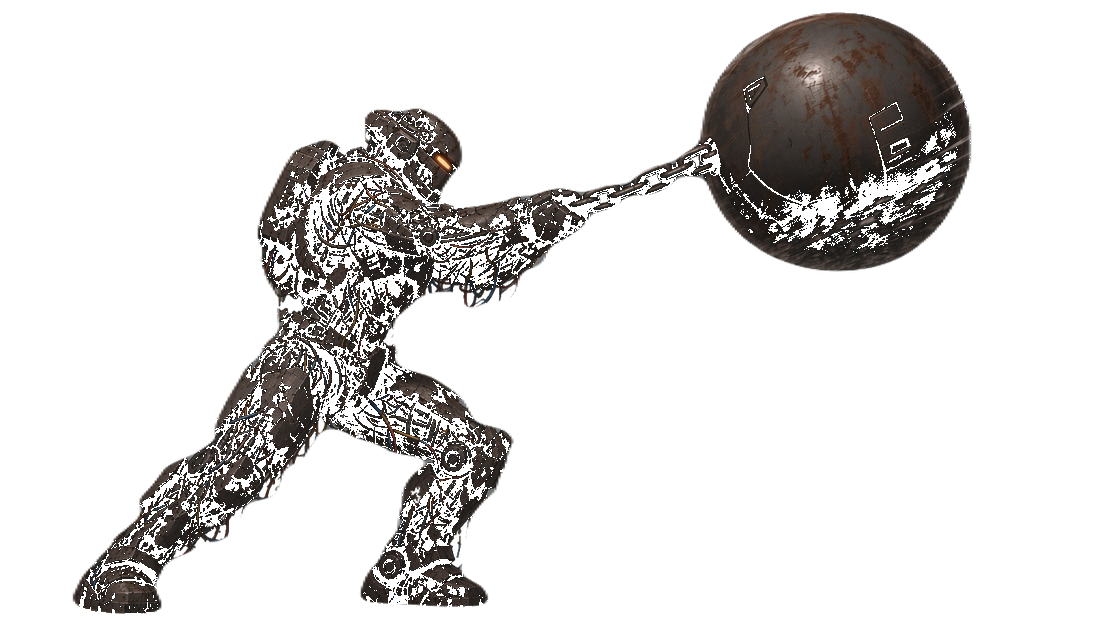
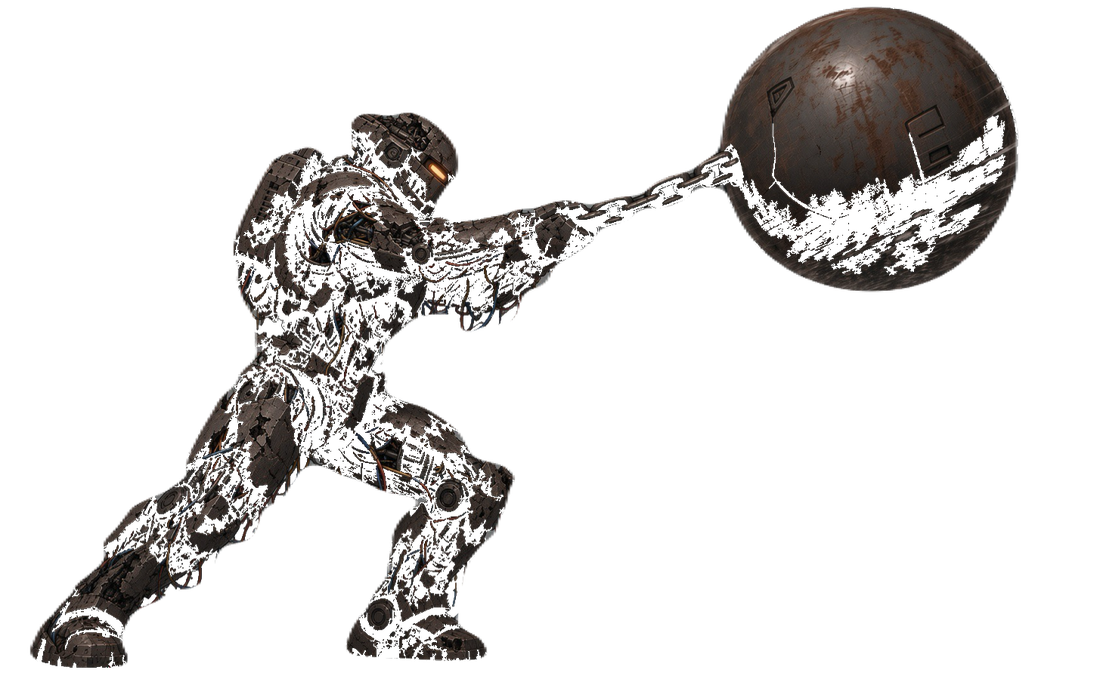
Golpe alto de Óxido: capas nuevas sin fondo gris.

Changed region(s): [[0.0309, 0.0, 0.9273, 1.0]]

diff --git a/index.html b/index.html
@@ -8,7 +8,7 @@
   <meta name="apple-mobile-web-app-status-bar-style" content="black-translucent" />
   <meta name="theme-color" content="#05070f" />
   <title>Peleas de Robots</title>
-  <link rel="stylesheet" href="style.css?v=28" />
+  <link rel="stylesheet" href="style.css?v=29" />
 </head>
 <body>
   <div id="app">
@@ -184,6 +184,6 @@
       </div>
     </section>
   </div>
-  <script src="game.js?v=28"></script>
+  <script src="game.js?v=29"></script>
 </body>
 </html>
